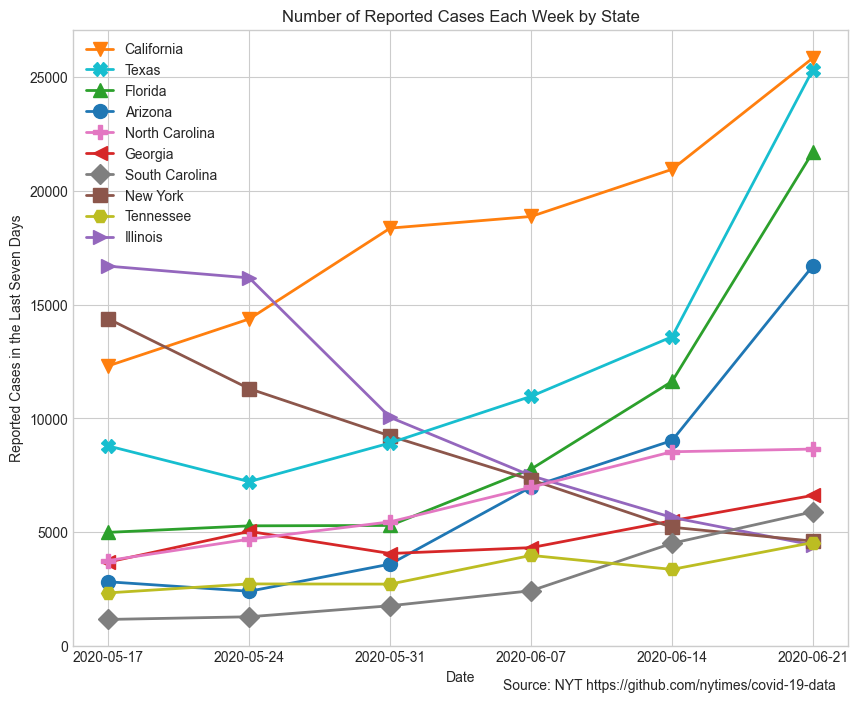
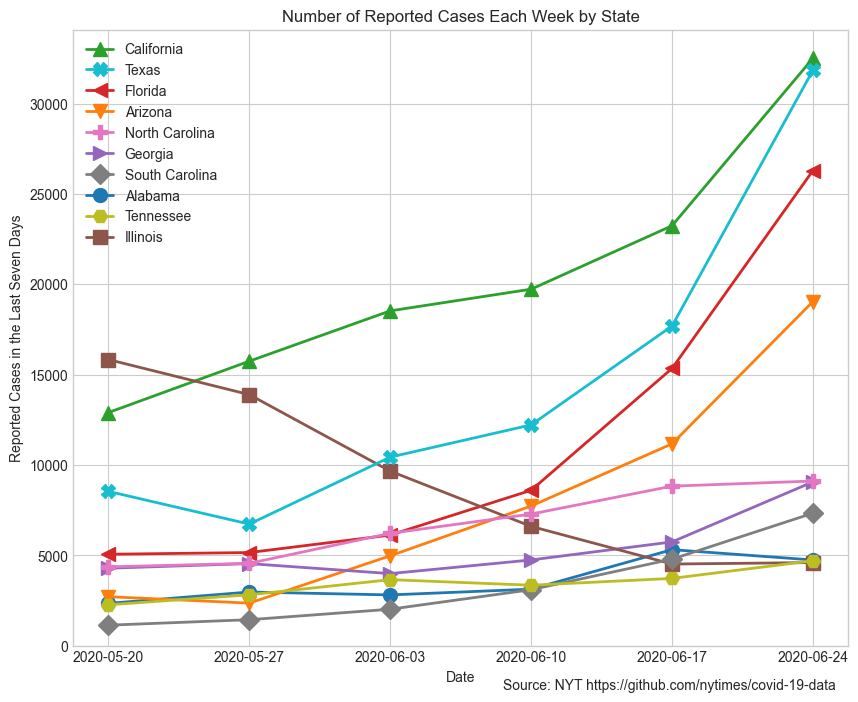
update with 6/24 data

diff --git a/README.md b/README.md
@@ -1,6 +1,6 @@
 # Coronavirus in the U.S.
 
-The plots below show the ten states and ten counties with the most reported cases of Covid-19 in the last seven days, as of June 21, 2020. 
+The plots below show the ten states and ten counties with the most reported cases of Covid-19 in the last seven days, as of June 24, 2020. 
 
 ## Reported cases by state
 
